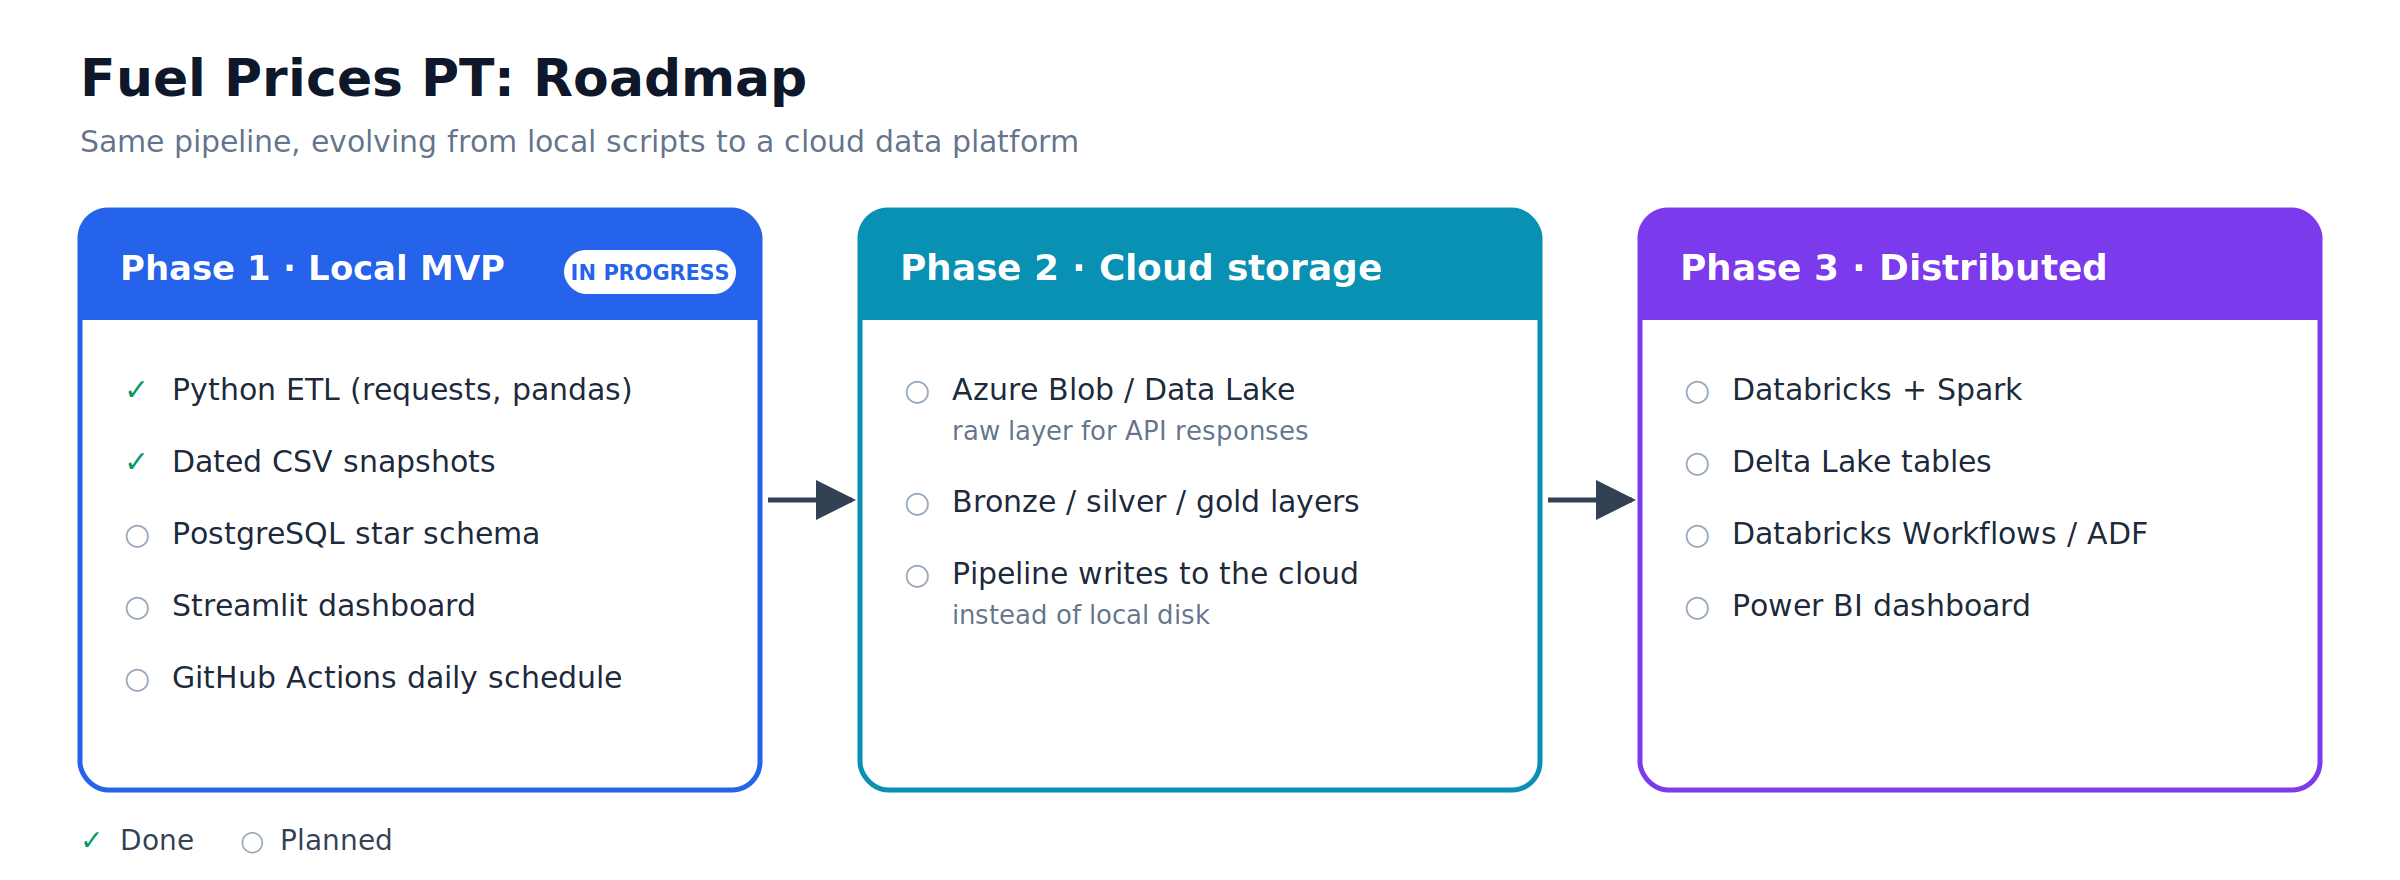
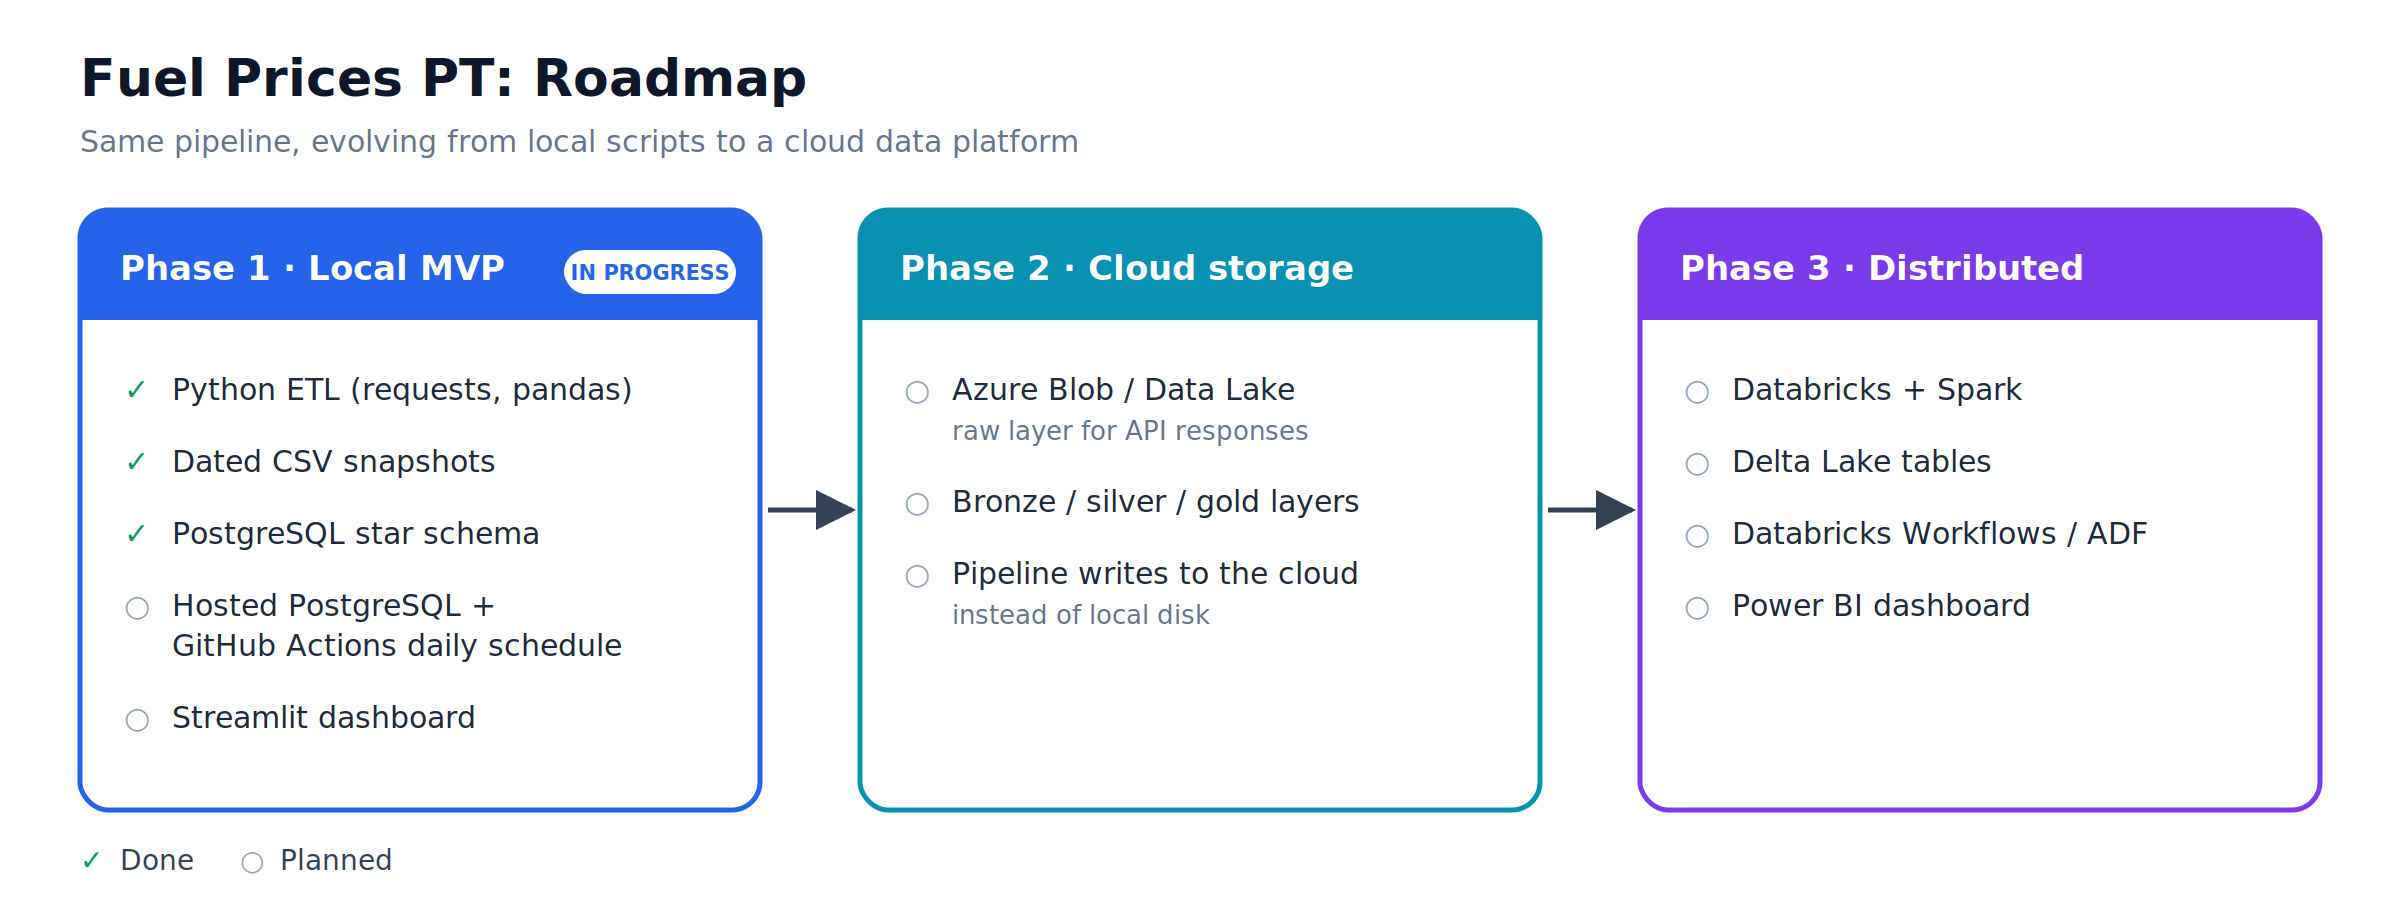
Document star schema: ERD, updated architecture, README data model

diff --git a/README.md b/README.md
@@ -1,6 +1,6 @@
 # Fuel Prices PT
 
-A daily ETL pipeline that collects the price of every fuel at every petrol station in Portugal, building a price history that the official source does not keep.
+A daily ETL pipeline that collects the price of every fuel at every petrol station in Portugal and models it as a star schema in PostgreSQL, building a price history that the official source does not keep.
 
 ![Phase 1 architecture](docs/images/architecture.png)
 
@@ -10,7 +10,7 @@ Portugal's Directorate-General for Energy and Geology (DGEG) publishes current f
 
 This pipeline takes a snapshot every day and stores it, turning a "right now" view into a historical dataset. That makes it possible to answer questions the source can't, such as how prices evolve by brand, region or station over time.
 
-I built it as a portfolio project while moving from mechanical engineering into data engineering, to practice the full lifecycle of a pipeline: data discovery, extraction, transformation, storage, modelling, scheduling and visualisation.
+I built it as a portfolio project while moving from mechanical engineering into data engineering, to practise the full lifecycle of a pipeline: data discovery, extraction, transformation, storage, modelling, scheduling and visualisation.
 
 ## Data source
 
@@ -31,14 +31,19 @@ The data belongs to DGEG. Their terms allow personal, non-commercial use; this p
 
 ## How it works
 
-The pipeline follows a classic **extract → transform → load** structure, with each step in its own module:
+The pipeline follows an **extract → transform → load** structure, with each step in its own module:
 
 | Step | File | What it does |
 |---|---|---|
 | Extract | [`etl/extract.py`](etl/extract.py) | Paginated requests to the DGEG API until every record is collected |
 | Transform | [`etl/transform.py`](etl/transform.py) | Converts the JSON records into a pandas DataFrame and parses prices into numbers |
-| Load | [`etl/load.py`](etl/load.py) | Writes a dated CSV snapshot, one file per run, never overwriting earlier days |
+| Load | [`etl/load.py`](etl/load.py) | Saves a dated raw CSV, then loads PostgreSQL through a staging table |
 | Orchestration | [`pipeline.py`](pipeline.py) | Runs the three steps in sequence |
+
+The load step writes to two layers:
+
+1. **Raw layer:** a dated CSV per run in `data/raw/`, exactly as transformed. If the database ever needs rebuilding, it can be reloaded from these files.
+2. **Modelled layer:** the day's rows are bulk-copied (`COPY`) into a staging table, then [`sql/load_from_staging.sql`](sql/load_from_staging.sql) moves them into the dimensions first and the fact table second.
 
 Example run:
 
@@ -50,25 +55,52 @@ Extract complete: 13627 records
 Transform complete: 13627 rows, 16 columns
 
 Saved 13627 rows to data/raw/fuel_prices_2026-10-04.csv
+Staged 13627 rows in stg_precos
+Loaded PostgreSQL: 13627 price rows for 2026-10-04
 Pipeline finished.
 ```
 
+## Data model
+
+![Star schema](docs/images/star_schema.png)
+
+A **star schema** in PostgreSQL, defined in [`sql/schema.sql`](sql/schema.sql):
+
+| Table | One row = | Key |
+|---|---|---|
+| `fact_precos` | one station × fuel × snapshot day | (`data_key`, `posto_id`, `combustivel_id`) |
+| `dim_postos` | one station | DGEG station `Id` |
+| `dim_combustivel` | one fuel type | generated ID |
+| `dim_data` | one calendar day | integer date, e.g. `20261004` |
+
+`fact_precos` is a **periodic snapshot fact table**: every station's price is recorded every day, even when it hasn't changed, so "what was the price on day X?" is a simple lookup.
+
 ### Design decisions
 
-- **Append-only snapshots.** Each run adds a new dated file and never edits old ones, so history accumulates and can't be accidentally overwritten.
-- **Raw values kept during transformation.** The original price string is kept next to the parsed number, so any parsing problem can be traced back to the source value. Only the clean column will go into the final tables.
-- **Total read at runtime.** The record count changes daily, so the pipeline reads it from the API on every run instead of hardcoding it.
+- **Idempotent loads.** The fact table's primary key is (day, station, fuel), and inserts use `ON CONFLICT DO NOTHING`. Rerunning the pipeline on the same day never creates duplicates.
+- **One transaction per run.** Staging, dimensions and facts load together: if any step fails, nothing from that run is kept.
+- **Dimensions before facts.** Foreign keys guarantee every price points to an existing station, fuel and date.
+- **Two dates per price.** `data_key` is when the pipeline captured the price; `data_atualizacao` is when the station last changed it. An old `data_atualizacao` flags a possibly stale price.
+- **Exact prices.** Prices are `NUMERIC(6,3)`, not floating point, so values are stored exactly.
+- **Station changes overwrite (SCD Type 1).** `dim_postos` keeps the latest details of each station, plus `primeira_vez` / `ultima_vez`, the first and latest day it appeared. A station whose `ultima_vez` stops advancing has probably closed.
+- **Append-only raw layer.** Each run adds a new dated CSV and never edits old ones.
 
-## Planned data model
+### Example query
 
-The raw data is one flat table with station details repeated on every row. The next step models it as a **star schema** in PostgreSQL:
+Average simple diesel price per district, on the latest day loaded:
 
-- `fact_precos`: one row per station, fuel type and day, with the price
-- `dim_postos`: station details (name, brand, address, municipality, district, coordinates)
-- `dim_combustivel`: fuel types
-- `dim_data`: calendar attributes (day, weekday, month, year)
-
-Dimensions are loaded before facts, so every price row points to existing station, fuel and date records.
+```sql
+SELECT p.distrito,
+       ROUND(AVG(f.preco), 3) AS preco_medio,
+       COUNT(*)               AS postos
+FROM fact_precos f
+JOIN dim_postos      p USING (posto_id)
+JOIN dim_combustivel c USING (combustivel_id)
+WHERE c.nome = 'Gasóleo simples'
+  AND f.data_key = (SELECT MAX(data_key) FROM fact_precos)
+GROUP BY p.distrito
+ORDER BY preco_medio;
+```
 
 ## Roadmap
 
@@ -78,9 +110,9 @@ Dimensions are loaded before facts, so every price row points to existing statio
 - [x] Discover and document the DGEG API
 - [x] Modular ETL in Python (requests, pandas)
 - [x] Daily, dated CSV snapshots
-- [ ] PostgreSQL star schema
+- [x] PostgreSQL star schema with idempotent loads
+- [ ] Hosted PostgreSQL + daily scheduling with GitHub Actions
 - [ ] Streamlit dashboard
-- [ ] Daily scheduling with GitHub Actions
 
 **Phase 2: Cloud storage**
 - [ ] Raw layer in Azure Blob Storage / Data Lake
@@ -95,27 +127,33 @@ Dimensions are loaded before facts, so every price row points to existing statio
 ## Project structure
 
 ```
-fuel-prices-pt/
 ├── etl/
-│   ├── extract.py       # API requests and pagination
-│   ├── transform.py     # cleaning and parsing
-│   └── load.py          # dated CSV snapshots
-├── pipeline.py          # runs the full ETL
-├── notebooks/           # initial API exploration
-├── notes/               # API discovery notes and work logs
-├── docs/images/         # architecture and roadmap diagrams
+│   ├── extract.py              # API requests and pagination
+│   ├── transform.py            # cleaning and parsing
+│   └── load.py                 # raw CSV + PostgreSQL load
+├── sql/
+│   ├── schema.sql              # star schema: tables, keys, constraints
+│   └── load_from_staging.sql   # staging → dimensions → fact table
+├── pipeline.py                 # runs the full ETL
+├── backfill.py                 # loads existing raw CSVs into PostgreSQL
+├── notebooks/                  # initial API exploration
+├── notes/                      # API discovery notes and work logs
+├── docs/images/                # diagrams
+├── .env.example                # template for database settings
 └── requirements.txt
 ```
 
-The `data/` folder is created when the pipeline runs and is excluded from version control.
+The `data/` folder is created when the pipeline runs and is excluded from version control, as is `.env`.
 
 ## How to run
 
-Requires Python 3.10+.
+Requires Python 3.14 (the version it was built and tested with) and PostgreSQL (tested with 18).
+
+**1. Get the code and install dependencies**
 
 ```bash
-git clone https://github.com/amffpsa24-art/fuel-prices-pt.git
-cd fuel-prices-pt
+git clone https://github.com/amffpsa24-art/DE-Project---fuel-prices-pt.git
+cd DE-Project---fuel-prices-pt
 
 python -m venv .venv
 # Windows (PowerShell)
@@ -124,17 +162,32 @@ python -m venv .venv
 source .venv/bin/activate
 
 pip install -r requirements.txt
-python pipeline.py
 ```
 
-The output appears in `data/raw/`.
+**2. Set up the database**
+
+```bash
+psql -U postgres -c "CREATE DATABASE fuel_prices ENCODING 'UTF8';"
+psql -U postgres -d fuel_prices -f sql/schema.sql
+```
+
+Copy `.env.example` to `.env` and fill in your PostgreSQL password.
+
+**3. Run**
+
+```bash
+python pipeline.py    # today's snapshot: raw CSV + database
+python backfill.py    # optional: load any older CSVs from data/raw/
+```
+
+Both are safe to rerun: rows that already exist are skipped.
 
 ## Tech stack
 
-**Now:** Python, requests, pandas, Git/GitHub
-**Planned:** PostgreSQL, Streamlit, GitHub Actions, Azure, Databricks, Spark, Delta Lake
+**Now:** Python, requests, pandas, PostgreSQL, psycopg, SQL, Git/GitHub
+**Planned:** hosted PostgreSQL, GitHub Actions, Streamlit, Azure, Databricks, Spark, Delta Lake
 
 ## Author
 
-**André Francisco**: Mechanical engineer (MSc, Instituto Superior Técnico) moving into data engineering.
-[LinkedIn](https://www.linkedin.com/in/andremffrancisco)
+**André Francisco**: mechanical engineer (MSc, Instituto Superior Técnico) moving into data engineering.
+[LinkedIn](https://www.linkedin.com/in/your-profile)
